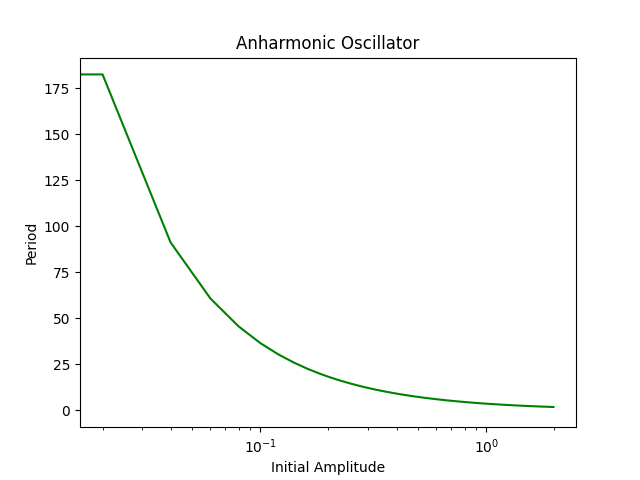
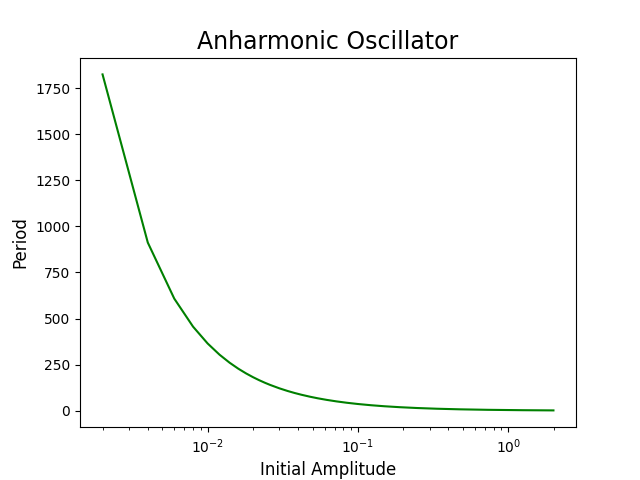
FINAL

diff --git a/PS-4/prob1.py b/PS-4/prob1.py
@@ -2,18 +2,17 @@ import numpy as np
 import matplotlib.pyplot as plt
 
 V = 1e-3 #volume (m^3).
-rho = np.float32(6.022e28) #density of solid aluminum (m^-3).
+rho = np.float32(6.022e28) #number density of solid aluminum (m^-3).
 theta = 428 #Debye temperature (K).
 k_B = np.float32(1.380649e-23) #Boltzmann constant (J/K).
 
-N = 50 #number of points taken for gaussian quadrature.
 T = np.arange(5,500,1) #array of temperature values.
 
 #calculates heat capacity for a given temperature.
-def heat_capacity(T):
-    alpha = 9*V*rho*k_B*(T/theta)**3 #constant outside integral.
+def heat_capacity(Ti,N):
+    alpha = 9*V*rho*k_B*(Ti/theta)**3 #constant outside integral.
     a = 0 #lower bound of integral.
-    b = theta/T #upper bound of integral.
+    b = theta/Ti #upper bound of integral.
     x,w = np.polynomial.legendre.leggauss(N) #generates reference point locations and their weights for Legendre polynomials.
 
     xp = 0.5*(b-a)*x + 0.5*(b+a) 
@@ -28,14 +27,26 @@ def heat_capacity(T):
         Cv += wp[k]*heat_func(xp[k]) #calculates the integral using gaussian quadrature.
     return alpha*Cv #total heat capacity.
     
-Cv = np.array([heat_capacity(Ti) for Ti in T]) #makes an array of heat capacity values for each value of T in the array.
+Cv = np.array([heat_capacity(Ti,50) for Ti in T]) #makes an array of heat capacity values for each value of T in the array.
 
 
 plt.figure()
-plt.title('Heat Capacity of a Solid')
-plt.xlabel('Temperature (K)')
-plt.ylabel('Heat Capacity Cv (J/K)')
+plt.title('Heat Capacity of a Solid', fontsize = 16)
+plt.xlabel('Temperature (K)', fontsize = 12)
+plt.ylabel('Heat Capacity Cv (J/K)', fontsize = 12)
 plt.xscale('log')
 plt.plot(T,Cv, color = 'r')
 plt.savefig('Heat_Capacity')
 
+plt.figure()
+plt.title('Heat Capacity Using Gaussian Quadrature', fontsize = 16)
+plt.xlabel('Temperature (K)', fontsize = 12)
+plt.ylabel('Heat Capacity Cv (J/K)', fontsize = 12)
+
+plt.plot(T,[heat_capacity(Ti,10) for Ti in T], color = 'r', label = 'N = 10')
+plt.plot(T,[heat_capacity(Ti,20) for Ti in T], color = 'y', label = 'N = 20')
+plt.plot(T,[heat_capacity(Ti,30) for Ti in T], color = 'g', label = 'N = 30')
+plt.plot(T,[heat_capacity(Ti,40) for Ti in T], color = 'c', label = 'N = 40')
+plt.plot(T,[heat_capacity(Ti,50) for Ti in T], color = 'm', label = 'N = 50')
+plt.legend()
+plt.savefig('Quadrature_Divergence')

diff --git a/PS-4/prob3.py b/PS-4/prob3.py
@@ -13,7 +13,7 @@ def Hermite(n,x): #calculates Hermite polynomial for the nth energy level.
         H[0,:] = 1
         H[1,:] = 2*x
         for i in range(2,n+1):
-            H[i,:] = 2*x*H[i-1,:] - 2*n*H[i-2,:]
+            H[i,:] = 2*x*H[i-1,:] - 2*(i-1)*H[i-2,:]
     return H
         
 
@@ -24,15 +24,15 @@ def Schrodinger(n,x): #wave(function^2)
 
 
 def quantum_uncertainty(n,N):
-    a = -np.inf #lower bound of integral.
-    b = np.inf #upper bound of integral.
-    x,w = np.polynomial.legendre.leggauss(N) #generates reference point locations and their weights for Legendre polynomials.
-    xp = 0.5*(b-a)*x + 0.5*(b+a) 
-    wp = 0.5*(b-a)*w
-
+    a = -1 #lower bound of integral (really negative infinity but with change of variables).
+    b = 1 #upper bound of integral (really positive infinity but with change of variables).
+    xg,wg = np.polynomial.legendre.leggauss(N) #generates reference point locations and their weights for Legendre polynomials.
+    x = np.linspace(-1,1,100)
+    xm = xg/(1-xg**2)
+    dxm = (1+xg**2)/(1-xg**2)**2
     rms = np.float32(0.0)
     for i in range(N):
-        rms += wp[i]*Schrodinger(n,xp)[i]
+        rms += (dxm[i]*wg[i]*(xm[i]**2)*np.abs(Schrodinger(n,xm)[i])**2)
 
     return np.sqrt(rms)
 
@@ -43,15 +43,10 @@ print(quantum_uncertainty(5,100))
 
 
 
-
-
-
-
-
 plt.figure(figsize=(10, 6)) 
-plt.title('1-Dimensional Harmonic Oscillator')
-plt.ylabel(r'Probability Density $\Psi$')
-plt.xlabel('Position x')
+plt.title('1-Dimensional Harmonic Oscillator', fontsize = 20)
+plt.ylabel(r'Probability Density $\Psi$', fontsize = 14)
+plt.xlabel('Position x', fontsize = 14)
 
 r1 = np.linspace(-4,4,100)
 plt.plot(r1,Schrodinger(0,r1), label = 'n = 0', color = 'r')
@@ -63,10 +58,9 @@ plt.savefig('Wavefunctions')
 
 
 plt.figure(figsize=(10, 6)) 
-plt.title('1-Dimensional Harmonic Oscillator')
-plt.ylabel(r'Probability Density $\Psi$')
-plt.yticks(np.arange(-6e5, 6e5, 1e5))
-plt.xlabel('Position x')
+plt.title('1-Dimensional Harmonic Oscillator', fontsize = 20)
+plt.ylabel(r'Probability Density $\Psi$',fontsize = 14)
+plt.xlabel('Position x',fontsize = 14)
 
 r2 = np.linspace(-10,10,500)
 plt.plot(r2,Schrodinger(30,r2), label = 'n = 30', color = 'm')

diff --git a/PS-4/prob2.py b/PS-4/prob2.py
@@ -7,7 +7,7 @@ C = np.sqrt(8*m) #constant in front of the integral.
 N = 20
 
 amax = 2
-amp = np.arange(0,amax,amax/100)
+amp = np.arange(0,amax,amax/1000)
 
 
 def anharmonic(a):
@@ -22,7 +22,7 @@ def anharmonic(a):
     
     def integral(a,xp):
         Vdiff = V(a)-V(xp) #potential difference between max and all other points.
-        valid_Vdiff = np.where(Vdiff>0, Vdiff, np.inf) #ensures no divide by zero.
+        valid_Vdiff = np.where(Vdiff>0, Vdiff, np.nan) #ensures no divide by zero.
         return 1/np.sqrt(valid_Vdiff) #outputs denominator in integral.
     
     T = 0.0
@@ -33,9 +33,9 @@ def anharmonic(a):
 T = np.array([anharmonic(a) for a in amp])
 
 plt.figure()
-plt.title('Anharmonic Oscillator')
-plt.xlabel('Initial Amplitude')
-plt.ylabel('Period')
+plt.title('Anharmonic Oscillator', fontsize = 17)
+plt.xlabel('Initial Amplitude', fontsize = 12)
+plt.ylabel('Period', fontsize = 12)
 plt.xscale('log')
 plt.plot(amp,T, color = 'g')
 plt.savefig('Anharmonic_Oscillator')
